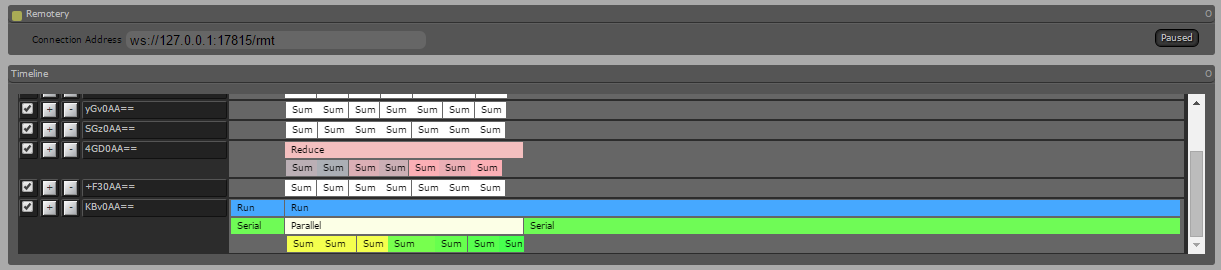
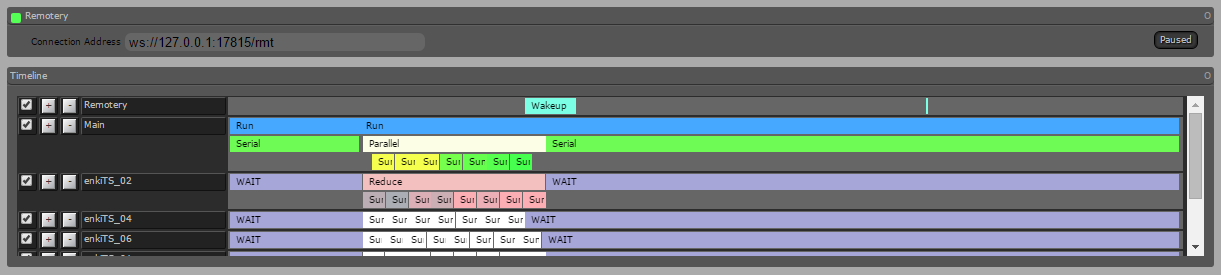
Added thread naming and wait profiling.

diff --git a/enkiTSRemoteryExample.cpp b/enkiTSRemoteryExample.cpp
@@ -96,6 +96,34 @@ struct ParallelReductionSumTaskSet : ITaskSet
 	}
 };
 
+static char* nameTable[] = {
+    "enkiTS_00", "enkiTS_01", "enkiTS_02", "enkiTS_03", "enkiTS_04", "enkiTS_05", "enkiTS_06", "enkiTS_07", "enkiTS_08", "enkiTS_09",
+    "enkiTS_10", "enkiTS_11", "enkiTS_12", "enkiTS_13", "enkiTS_14", "enkiTS_15", "enkiTS_16", "enkiTS_17", "enkiTS_18", "enkiTS_19",
+    "enkiTS_20", "enkiTS_21", "enkiTS_22", "enkiTS_23", "enkiTS_24", "enkiTS_25", "enkiTS_26", "enkiTS_27", "enkiTS_28", "enkiTS_29",
+    "enkiTS_30", "enkiTS_31", "enkiTS_32", "enkiTS_33", "enkiTS_34", "enkiTS_35", "enkiTS_36", "enkiTS_37", "enkiTS_38", "enkiTS_39",
+    "enkiTS_40", "enkiTS_41", "enkiTS_42", "enkiTS_43", "enkiTS_44", "enkiTS_45", "enkiTS_46", "enkiTS_47", "enkiTS_48", "enkiTS_49",
+    "enkiTS_50", "enkiTS_51", "enkiTS_52", "enkiTS_53", "enkiTS_54", "enkiTS_55", "enkiTS_56", "enkiTS_57", "enkiTS_58", "enkiTS_59",
+    "enkiTS_60", "enkiTS_61", "enkiTS_62", "enkiTS_63", "enkiTS_64", "enkiTS_XX",
+};
+const size_t nameTableSize = sizeof( nameTable ) / sizeof( const char* );
+
+void threadStartCallback( uint32_t threadnum_ )
+{
+    uint32_t nameNum = threadnum_;
+    if( nameNum >= nameTableSize ) { nameNum = nameTableSize-1; }
+    rmt_SetCurrentThreadName( nameTable[ nameNum ] );
+}
+
+void waitStartCallback( uint32_t threadnum_ )
+{
+    rmt_BeginCPUSample(WAIT);
+}
+
+void waitStopCallback( uint32_t threadnum_ )
+{
+    rmt_EndCPUSample();
+}
+
 static const int RUNS = 1024*1024;
 static const int SUMS = 10*1024*1024;
 
@@ -104,7 +132,13 @@ int main(int argc, const char * argv[])
 	Remotery* rmt;
 	rmt_CreateGlobalInstance(&rmt);
 
+    // Set the callbacks BEFORE initialize or we will get no threadstart nor first waitStart calls
+    g_TS.GetProfilerCallbacks()->threadStart    = threadStartCallback;
+    g_TS.GetProfilerCallbacks()->waitStart      = waitStartCallback;
+    g_TS.GetProfilerCallbacks()->waitStop       = waitStopCallback;
+
 	g_TS.Initialize();
+
 
 	rmt_SetCurrentThreadName("Main");
 

diff --git a/README.md b/README.md
@@ -10,6 +10,8 @@ This repository hosts extended examples.
 
 This example shows how to use [Remotery](https://github.com/Celtoys/Remotery) with [enkiTS](https://github.com/dougbinks/enkiTS/).
 
+Note that currently in release the sums might be optimized away.
+
 ![screenshot](images/enkiTSRemoteryExample.png?raw=true)
 
 ## [enkiTSRemoteryExample.c](enkiTSRemoteryExample.c)
